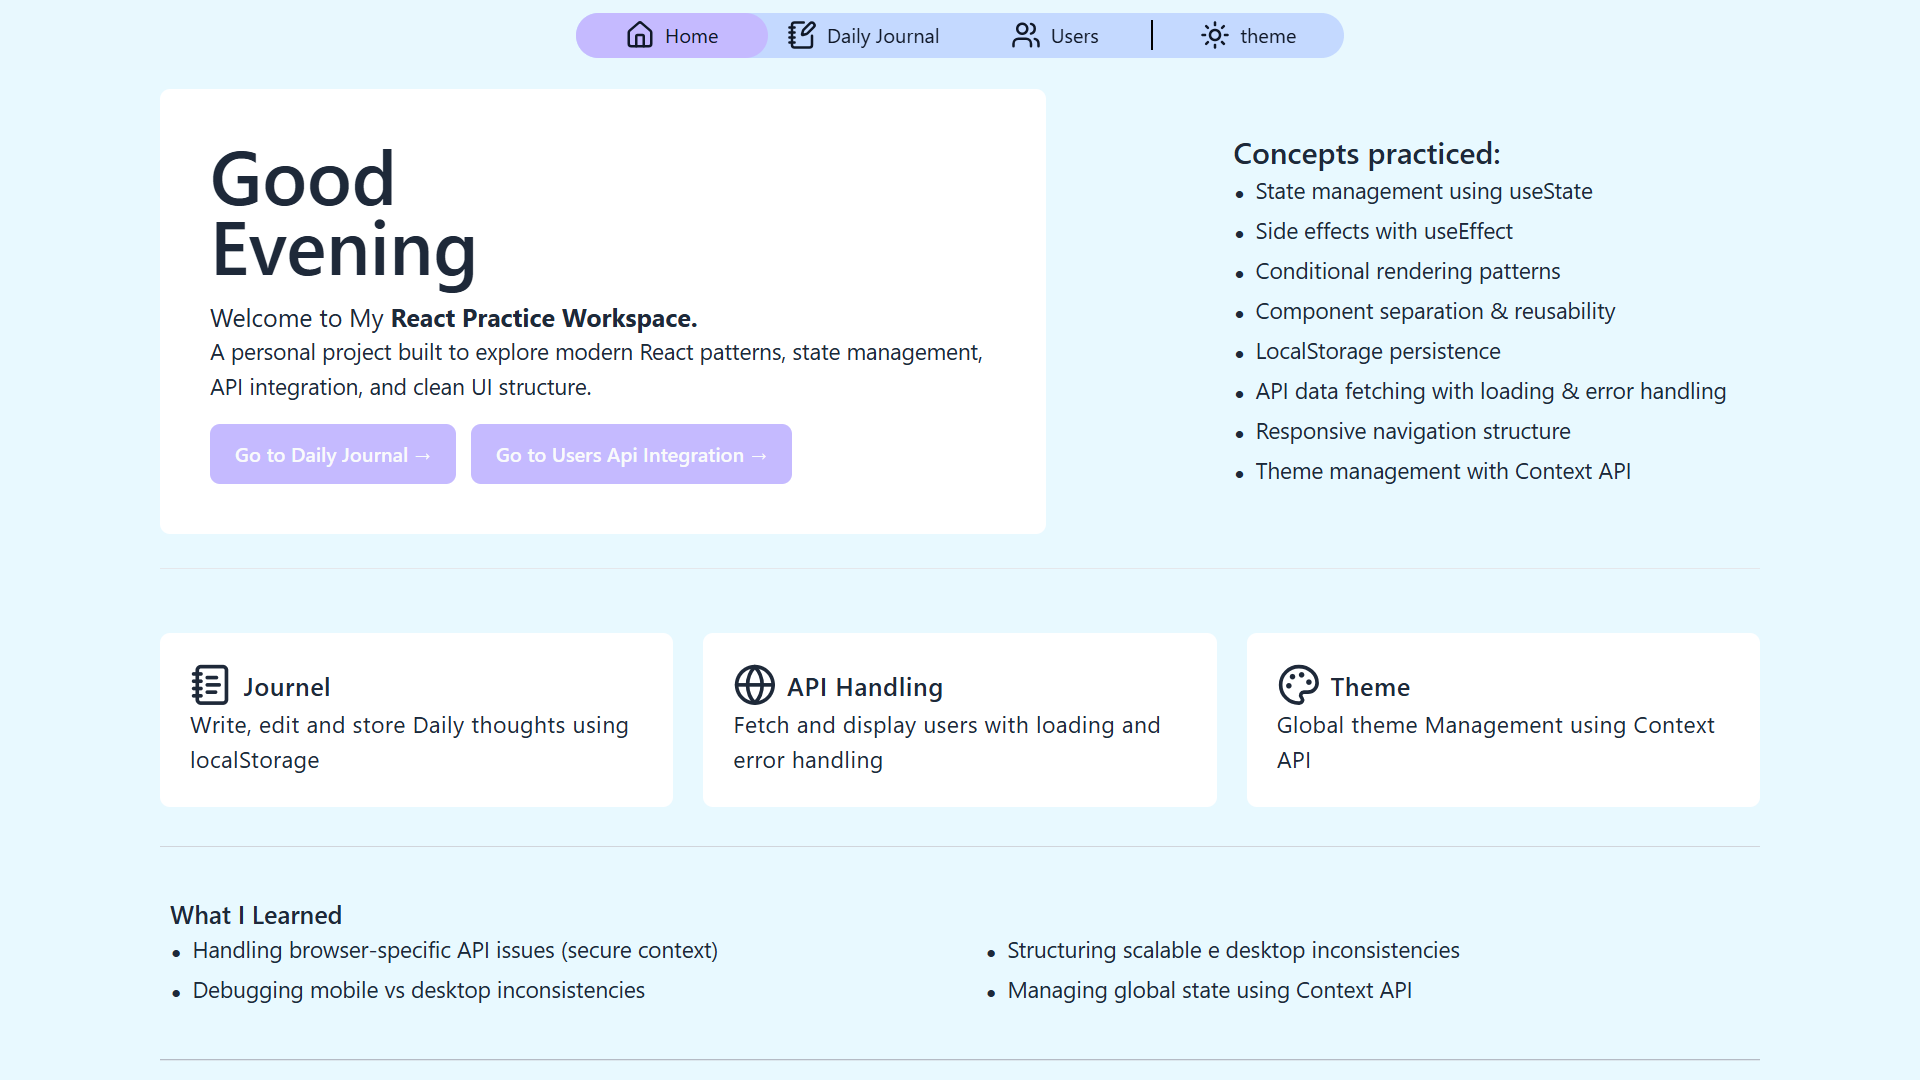
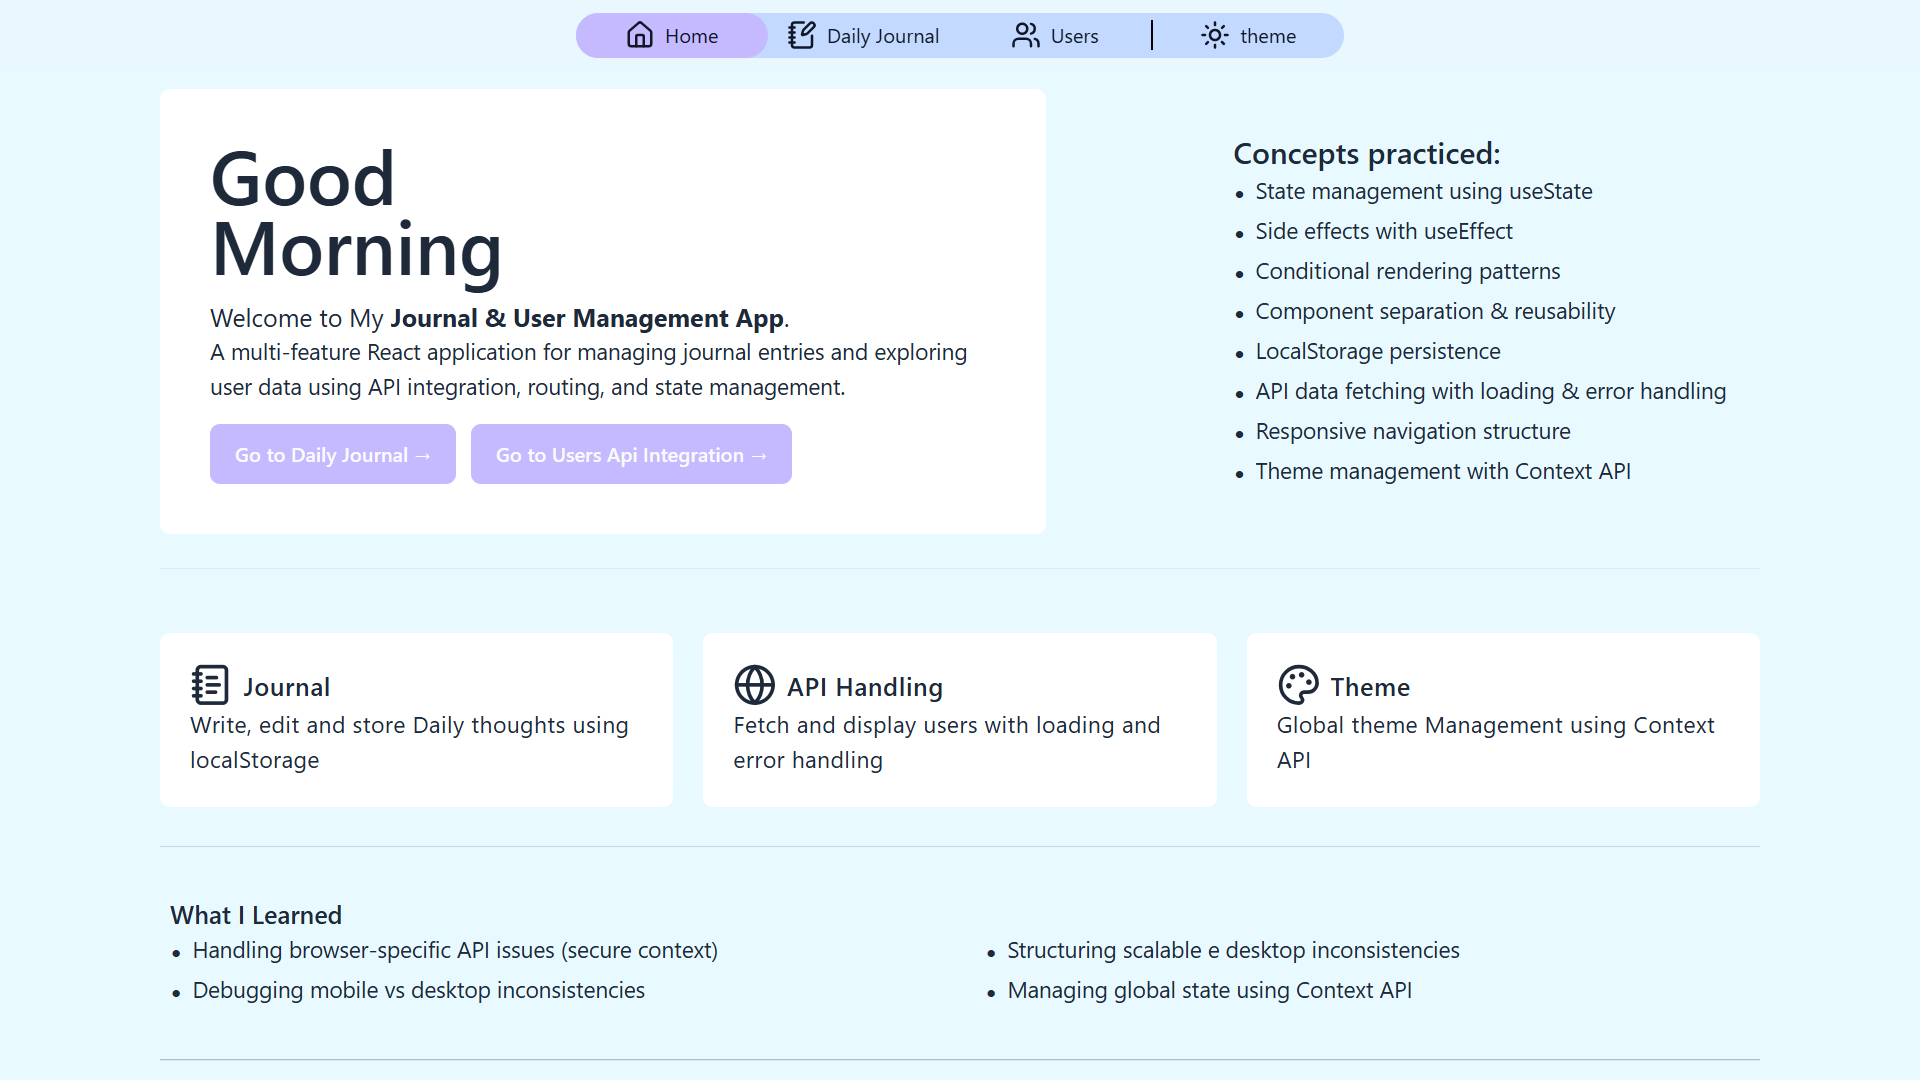
correction made

Changed region(s): [[0.0938, 0.2139, 0.5, 0.3667]]

diff --git a/index.html b/index.html
@@ -219,14 +219,16 @@
         </div>
         <div id="proj3" class="proJects">
           <div class="projImg">
-            <img src="imgs/Home.png" alt="React-Practice-workspace" />
+            <img src="imgs/Home.png" alt="react-journal-user-management" />
           </div>
           <div class="projDesc">
             <div class="projDescPara">
-              A React-based practice workspace built to explore core concepts
-              like state management, component structure, and API handling.
-              Focused on improving real-world development skills through
-              hands-on implementation.
+              A multi-feature React application designed to manage journal
+              entries and explore user data using real-world frontend patterns
+              such as API integration, routing, and state management. This
+              project demonstrates real-world frontend development concepts
+              including CRUD operations, API integration, state management, and
+              responsive UI design.
             </div>
             <div class="projBtns">
               <a
